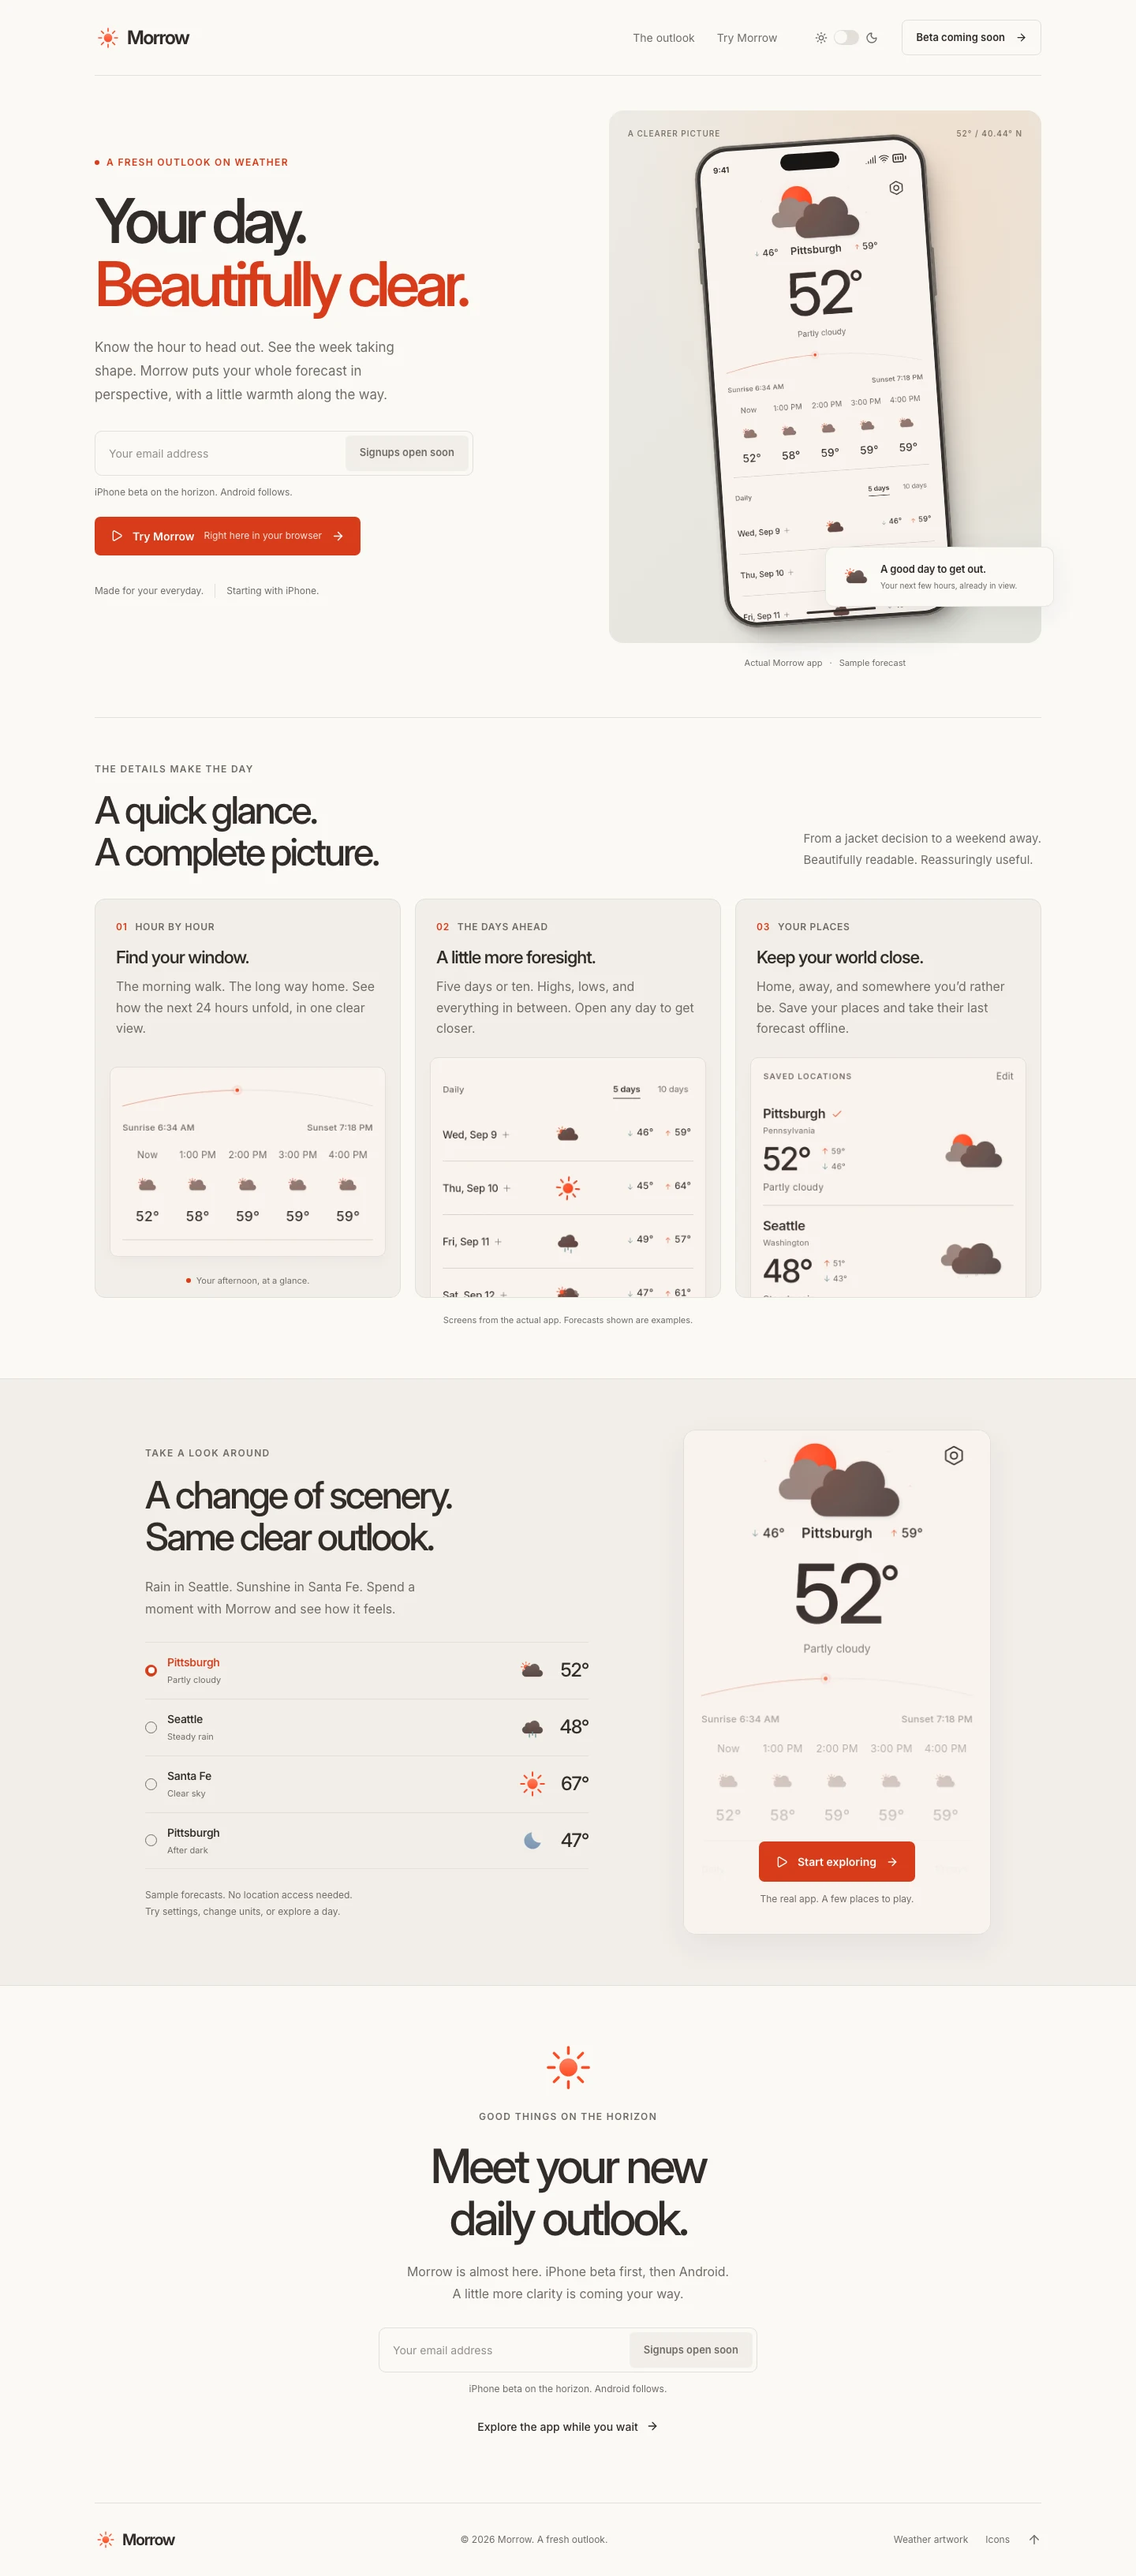
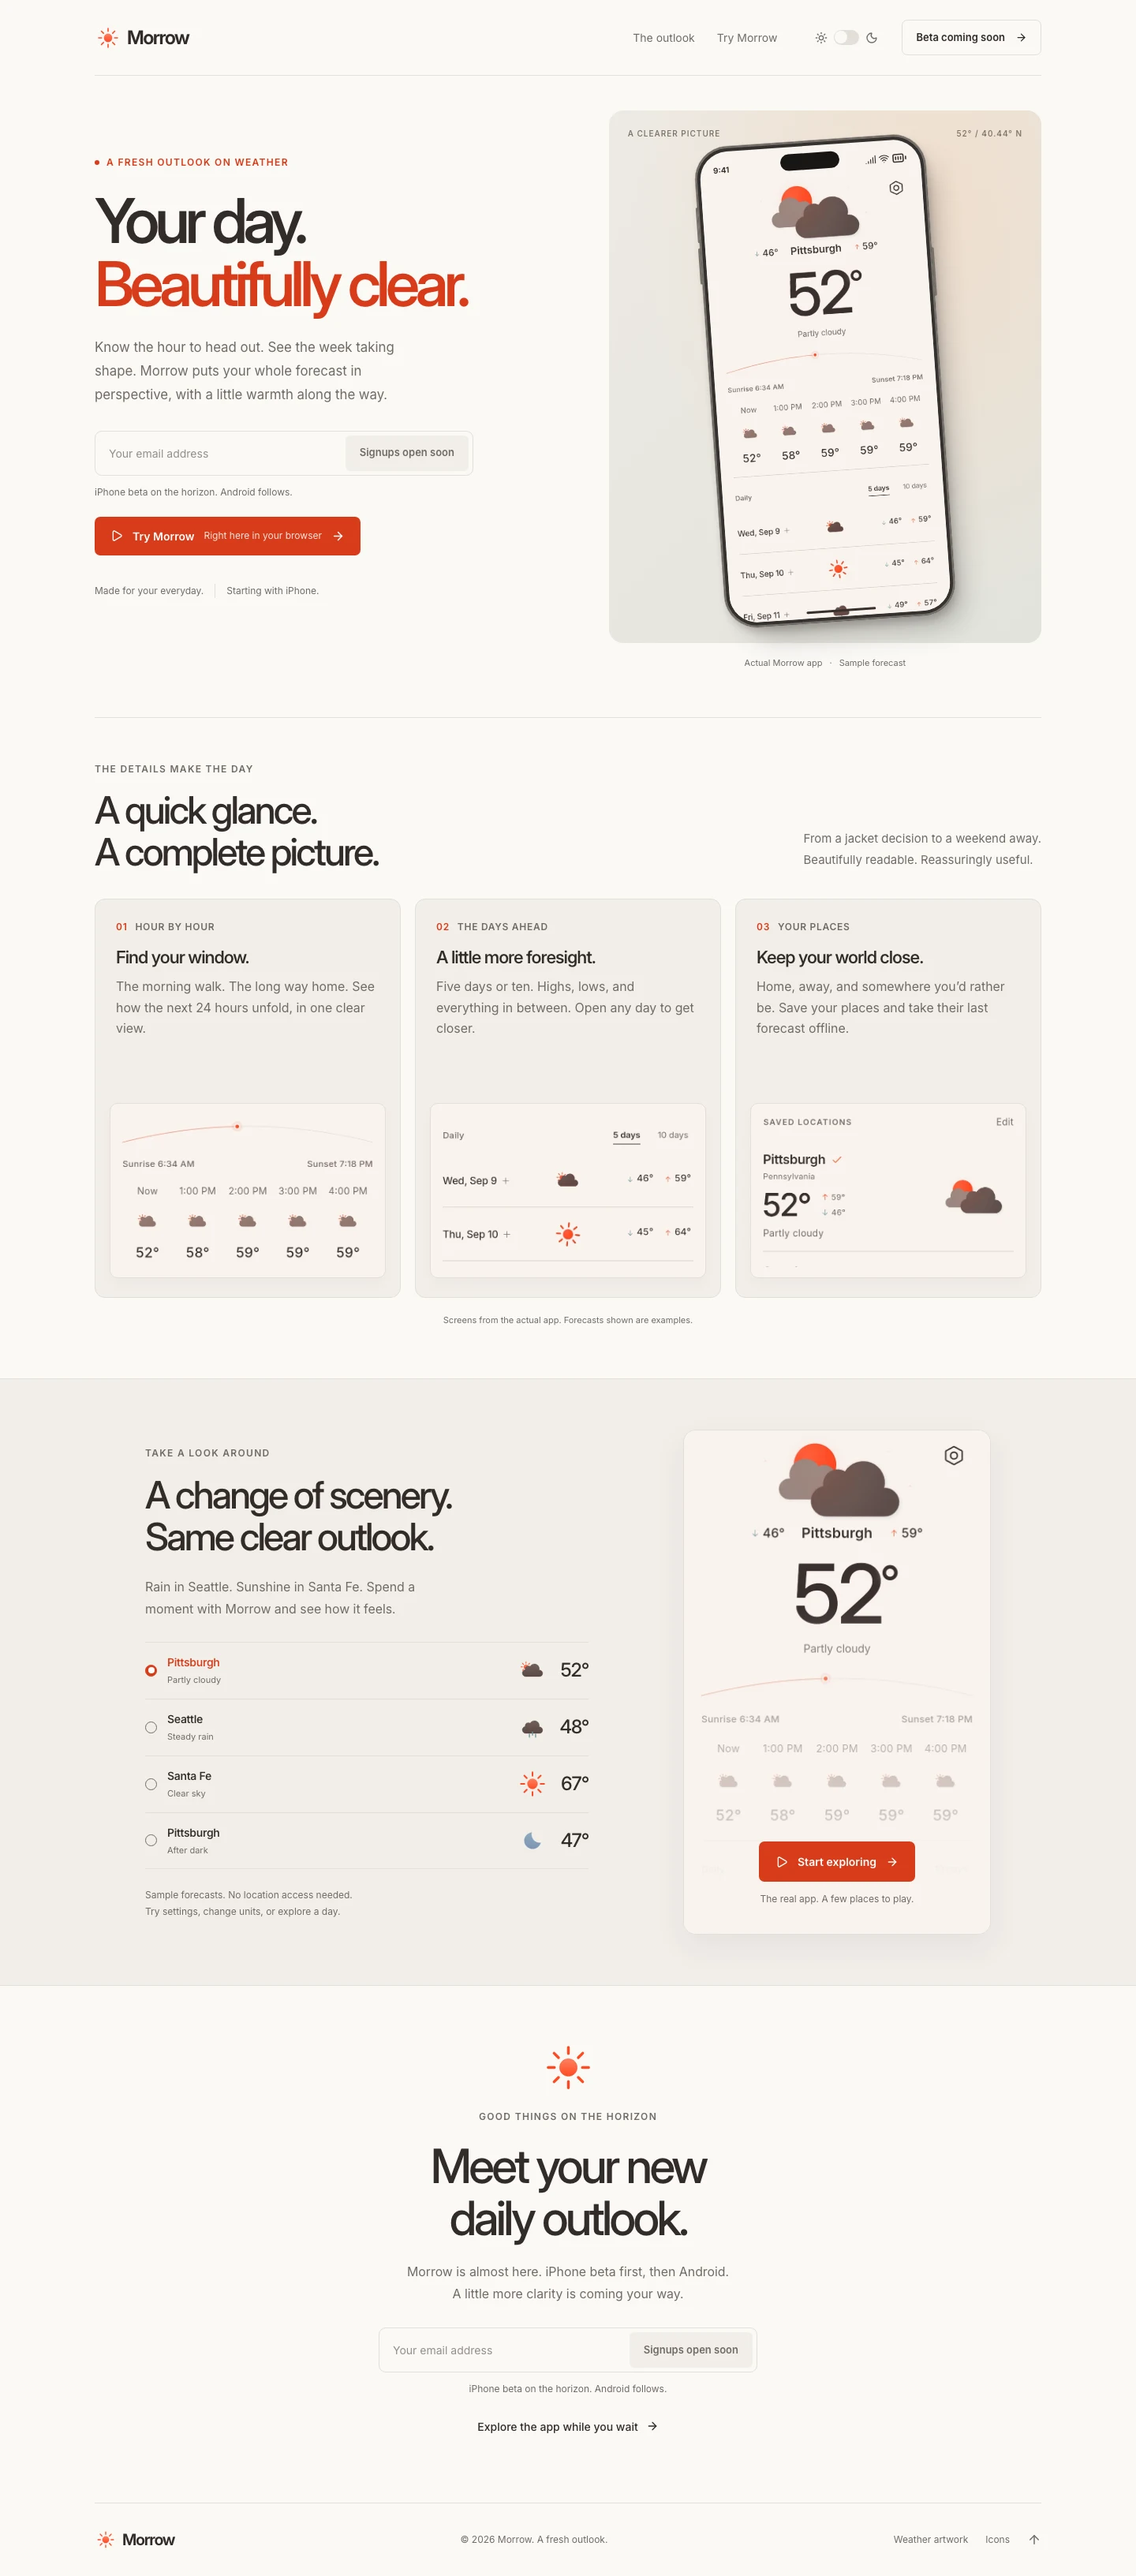
Align feature screenshot windows and remove the hero summary blurb

diff --git a/app/globals.css b/app/globals.css
@@ -454,34 +454,6 @@ h1 span {
   border-radius: 4px;
   background: currentColor;
 }
-.product-tag {
-  position: absolute;
-  z-index: 2;
-  bottom: 46px;
-  right: -16px;
-  display: flex;
-  align-items: center;
-  gap: 9px;
-  width: 290px;
-  padding: 16px 18px;
-  border-radius: 11px;
-  background: var(--background);
-  box-shadow: 0 8px 32px #302d2b12;
-  border: 1px solid color-mix(in srgb, var(--border), transparent 30%);
-}
-.product-tag strong {
-  display: block;
-  font-weight: 600;
-  font-size: 0.8125rem;
-  letter-spacing: -0.015em;
-}
-.product-tag span:not(.weather-mark) {
-  display: block;
-  margin-top: 4px;
-  font-size: 0.625rem;
-  line-height: 1.5;
-  color: var(--muted);
-}
 .hero-product figcaption {
   display: flex;
   gap: 9px;
@@ -553,6 +525,8 @@ h2 {
   gap: 18px;
 }
 .feature-panel {
+  display: flex;
+  flex-direction: column;
   min-width: 0;
   overflow: hidden;
   position: relative;
@@ -562,6 +536,7 @@ h2 {
   background: var(--surface);
 }
 .feature-copy {
+  flex: 1;
   padding: 26px 26px 23px;
 }
 .feature-label {
@@ -590,7 +565,9 @@ h2 {
   margin-top: 10px;
 }
 .feature-screen {
-  margin: 0 18px;
+  flex-shrink: 0;
+  aspect-ratio: 366 / 232;
+  margin: 0 18px 24px;
   padding: 13px 6px;
   border: 1px solid #e6ddd6;
   border-radius: 10px;
@@ -601,23 +578,9 @@ h2 {
 .feature-screen img {
   display: block;
   width: 100%;
-  height: auto;
-}
-.feature-01 .feature-screen {
-  margin-top: 12px;
-}
-.feature-annotation {
-  display: flex;
-  align-items: center;
-  gap: 7px;
-  justify-content: center;
-  color: var(--muted);
-  margin: 22px 16px;
-  font-size: 0.6875rem;
-}
-.feature-02 .feature-screen,
-.feature-03 .feature-screen {
-  border-radius: 10px 10px 0 0;
+  height: 100%;
+  object-fit: cover;
+  object-position: top;
 }
 .proof-note {
   color: var(--muted);
@@ -893,11 +856,6 @@ h2 {
   .phone-device {
     width: 255px;
   }
-  .product-tag {
-    right: -9px;
-    width: 262px;
-    padding: 13px;
-  }
   .signup-form {
     flex-wrap: wrap;
   }
@@ -968,14 +926,6 @@ h2 {
   .stage-caption span:last-child {
     display: none;
   }
-  .product-tag {
-    bottom: 30px;
-    right: -8px;
-    width: 242px;
-  }
-  .product-tag strong {
-    font-size: 0.75rem;
-  }
   .section-heading {
     align-items: flex-start;
   }
@@ -1006,9 +956,6 @@ h2 {
   .feature-screen {
     margin-inline: 8px;
     padding-inline: 3px;
-  }
-  .feature-annotation {
-    font-size: 0.625rem;
   }
   .demo-layout {
     gap: 30px;
@@ -1117,11 +1064,6 @@ h2 {
   .phone-connectivity svg {
     width: 12px;
   }
-  .product-tag {
-    bottom: 30px;
-    right: 9px;
-    width: 256px;
-  }
   .hero-product figcaption {
     margin-top: 12px;
   }
@@ -1181,19 +1123,8 @@ h2 {
     margin-top: 9px;
   }
   .feature-screen {
-    margin: 0 19px;
+    margin: 0 19px 24px;
     padding: 10px 5px;
-  }
-  .feature-01 .feature-screen {
-    margin-top: 0;
-  }
-  .feature-annotation {
-    font-size: 0.6875rem;
-    margin-block: 18px 24px;
-  }
-  .feature-02 .feature-screen,
-  .feature-03 .feature-screen {
-    height: 286px;
   }
   .feature-screen img {
     max-width: 366px;

diff --git a/components/morrow-landing.tsx b/components/morrow-landing.tsx
@@ -46,7 +46,7 @@ const features = [
     description:
       'Home, away, and somewhere you’d rather be. Save your places and take their last forecast offline.',
     image: 'places-light',
-    alt: 'Morrow’s saved places, showing the sample forecasts for Pittsburgh, Seattle, and Santa Fe.',
+    alt: 'Morrow’s saved locations screen, showing Pittsburgh’s current conditions and high and low temperatures.',
     width: 732,
     height: 1012,
   },
@@ -130,23 +130,6 @@ export function MorrowLanding({ beta }: { beta: BetaConfig }) {
                 <span>{dark ? '47°' : '52°'} / 40.44° N</span>
               </div>
               <ProductScreen dark={dark} />
-              <div className="product-tag" aria-hidden="true">
-                <WeatherMark
-                  kind={dark ? 'clear-night' : 'partly-cloudy-day'}
-                />
-                <div>
-                  <strong>
-                    {dark
-                      ? 'Good evening, Pittsburgh.'
-                      : 'A good day to get out.'}
-                  </strong>
-                  <span>
-                    {dark
-                      ? 'The day winds down. Your outlook stays clear.'
-                      : 'Your next few hours, already in view.'}
-                  </span>
-                </div>
-              </div>
             </div>
             <figcaption>
               Actual Morrow app <span>·</span> Sample forecast
@@ -183,10 +166,7 @@ export function MorrowLanding({ beta }: { beta: BetaConfig }) {
             aria-label="Morrow features"
           >
             {features.map((feature) => (
-              <article
-                className={`feature-panel feature-${feature.number}`}
-                key={feature.number}
-              >
+              <article className="feature-panel" key={feature.number}>
                 <div className="feature-copy">
                   <p className="feature-label">
                     <span>{feature.number}</span>
@@ -204,11 +184,6 @@ export function MorrowLanding({ beta }: { beta: BetaConfig }) {
                     loading="lazy"
                   />
                 </div>
-                {feature.number === '01' && (
-                  <p className="feature-annotation">
-                    <span className="status-dot" /> Your afternoon, at a glance.
-                  </p>
-                )}
               </article>
             ))}
           </section>

diff --git a/docs/previews/README.md b/docs/previews/README.md
@@ -1,6 +1,8 @@
 # Landing page previews
 
-Captured from the final static production export with both launch destinations unset.
+Captured from the static production export with both launch destinations unset.
+The three feature screenshots share aligned, equally sized windows, and the hero
+shows the app without a floating summary blurb.
 
 - [Desktop — 1440px wide](desktop.webp)
 - [Mobile — 390px wide](mobile.webp)
